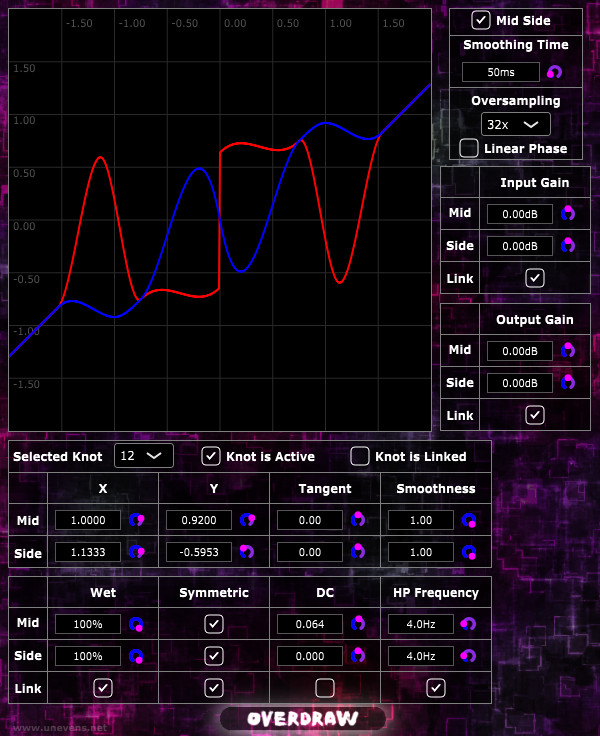
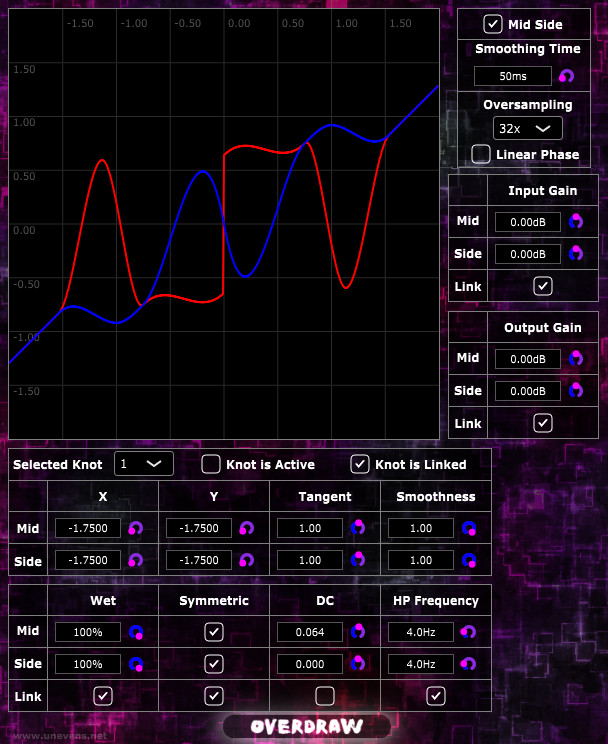
gui tweaks

diff --git a/Source/PluginEditor.cpp b/Source/PluginEditor.cpp
@@ -153,7 +153,7 @@ OverdrawAudioProcessorEditor::OverdrawAudioProcessorEditor(
   url.setText("www.unevens.net", dontSendNotification);
   url.setJustification(Justification::left);
 
-  setSize(750._p, 920._p);
+  setSize(760._p, 930._p);
 }
 
 OverdrawAudioProcessorEditor::~OverdrawAudioProcessorEditor() {}
@@ -164,12 +164,12 @@ OverdrawAudioProcessorEditor::paint(Graphics& g)
   g.drawImage(background, getLocalBounds().toFloat());
 
   g.setColour(backgroundColour);
-  g.fillRect(juce::Rectangle<int>(562._p, 10._p, 168._p, 190._p));
+  g.fillRect(juce::Rectangle<int>(572._p, 10._p, 168._p, 190._p));
 
   g.setColour(lineColour);
-  g.drawRect(562._p, 10._p, 168._p, 35._p, 1);
-  g.drawRect(562._p, 10._p, 168._p, 100._p, 1);
-  g.drawRect(562._p, 10._p, 168._p, 190._p, 1);
+  g.drawRect(572._p, 10._p, 168._p, 40._p, 1);
+  g.drawRect(572._p, 10._p, 168._p, 105._p, 1);
+  g.drawRect(572._p, 10._p, 168._p, 200._p, 1);
 
   g.drawRect(spline.getBounds().expanded(1, 1), 1);
 }
@@ -179,7 +179,7 @@ OverdrawAudioProcessorEditor::resized()
 {
   constexpr auto offset = 10._p;
   constexpr auto rowHeight = 40._p;
-  constexpr auto splineEditorSide = 530._p;
+  constexpr auto splineEditorSide = 540._p;
   constexpr auto knotEditorHeight = 160._p;
 
   spline.setTopLeftPosition(offset + 1, offset + 1);
@@ -229,13 +229,14 @@ OverdrawAudioProcessorEditor::resized()
 
   grid.templateColumns = { Track(1_fr) };
 
-  grid.templateRows = { Track(Grid::Px(30._p)), Track(Grid::Px(30._p)),
+  grid.templateRows = { Track(Grid::Px(35._p)), Track(Grid::Px(30._p)),
                         Track(Grid::Px(40._p)), Track(Grid::Px(30._p)),
-                        Track(Grid::Px(30._p)), Track(Grid::Px(30._p)) };
+                        Track(Grid::Px(30._p)), Track(Grid::Px(35._p)) };
 
   grid.items = { GridItem(midSide.getControl())
                    .withWidth(120._p)
-                   .withAlignSelf(GridItem::AlignSelf::center)
+                   .withHeight(30._p)
+                   .withAlignSelf(GridItem::AlignSelf::end)
                    .withJustifySelf(GridItem::JustifySelf::center),
                  GridItem(smoothingLabel)
                    .withAlignSelf(GridItem::AlignSelf::start)
@@ -258,7 +259,7 @@ OverdrawAudioProcessorEditor::resized()
   grid.alignContent = Grid::AlignContent::center;
 
   grid.performLayout(juce::Rectangle<int>(
-    splineEditorSide + 2 * offset, offset + 15._p, 190._p, 162._p));
+    splineEditorSide + 2 * offset, offset + 20._p, 200._p, 162._p));
 
   url.setTopLeftPosition(10._p, getHeight() - 18._p);
   url.setSize(160._p, 16._p);
